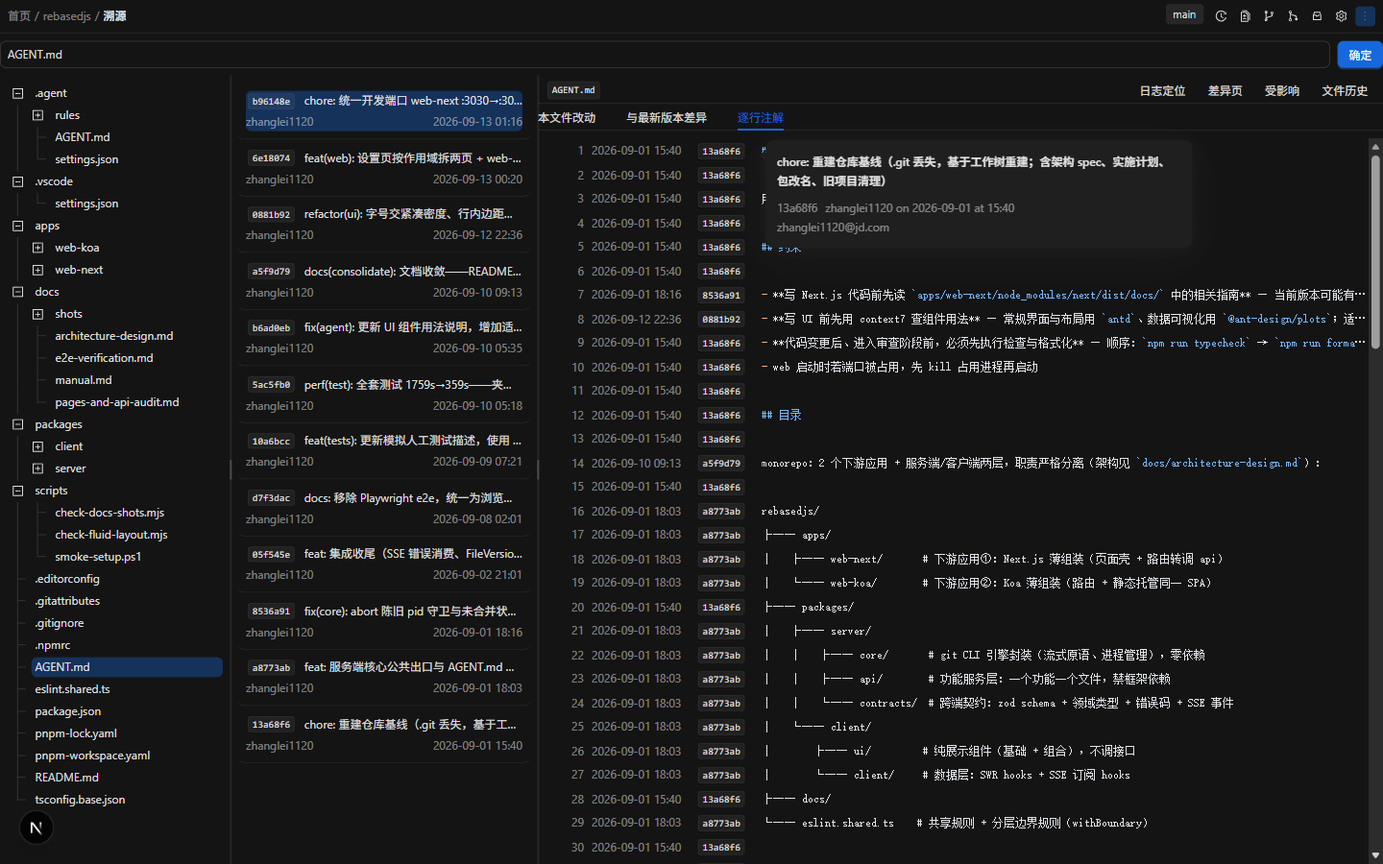
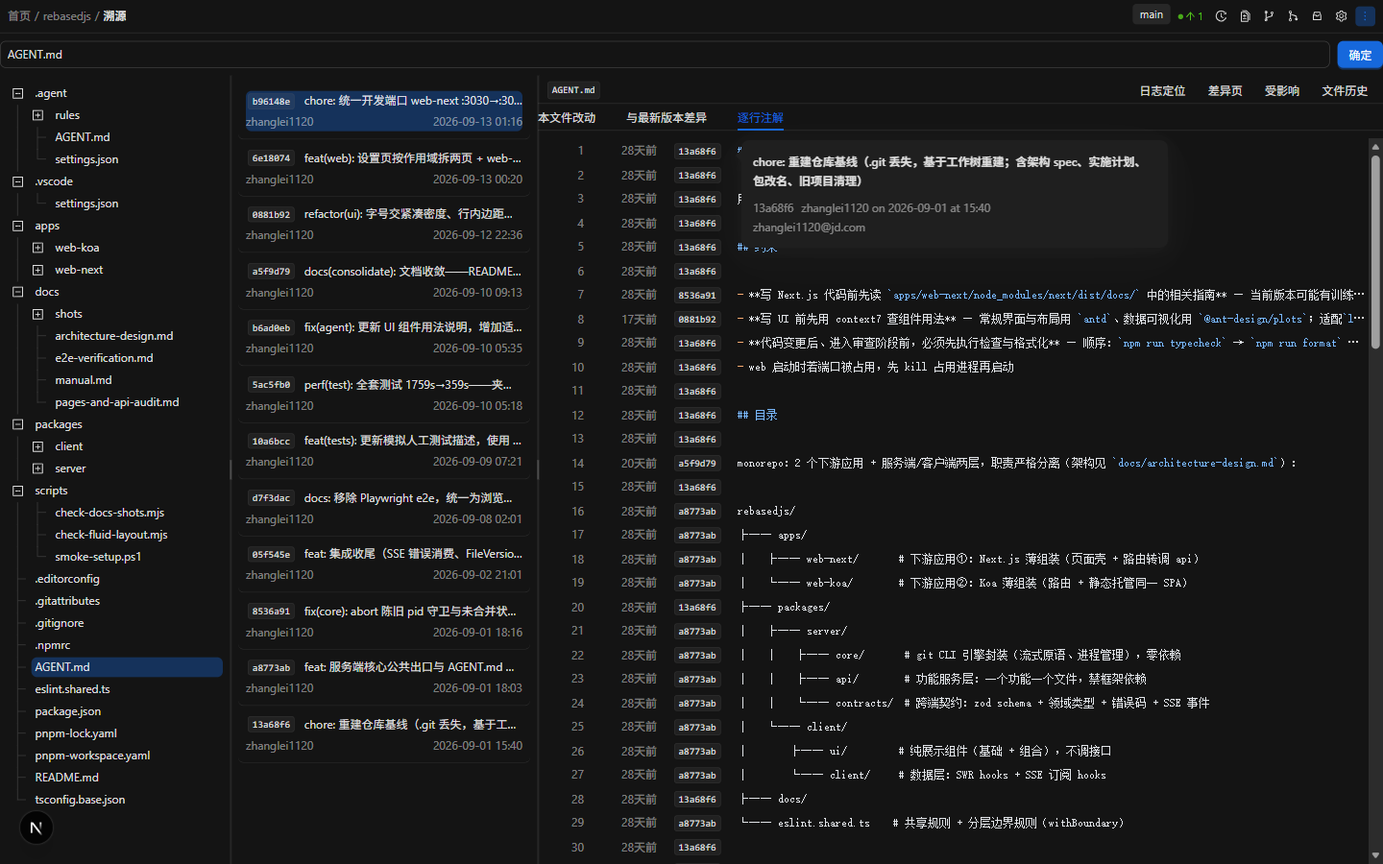
feat(blame): 注解行时间列改相对时间缩写，并把时间/哈希列定宽对齐
用户口径：行号后面的时间改成缩写（刚刚 / N分钟前 / N小时前 / N天前 / N月前 / N年前），
列宽要固定，保证右侧正文逐行对齐。

- domain/format.formatRelativeTime：<60s「刚刚」；<60min 分钟；<24h 小时；**≤31 天** 天
  （按 31 天切：口径里「31天前」与「1月前」都要能出现，按 30 天切会让 31 天永远是「1月前」）；
  <365 天 月（⌊天/30⌋，至少 1）；≥365 天 年；未来时刻按「刚刚」；无法解析原样返回；
  now 可注入（测试据此精确断言分档）
- 绝对时间不丢：浮层里仍是「作者 on YYYY-MM-DD at HH:mm」
- 定宽对齐（getBoundingClientRect 几何实测）：时间列 68px 右对齐；**哈希列 68px**——可点行是
  antd Button（自然宽 68）、未提交行是只读 Text（自然宽 53），修前正文左沿出现 768/753 两个值
  （差 15px），修后 distinctCodeLeft 只剩一个值（12 行含 5 行未提交 / 主仓 108 行均一致）
- 测试：format +4 例（各档分档、31 天切点、未来时刻、非法串）、blame-annotate-table +1 例
  （两类行同列宽）；ui 78 文件 / 990 用例全绿；typecheck 7/7
- 文档：manual §4.16、audit §4.16、e2e §5.35⑧（几何数字 + 刷新时机 + 未覆盖说明）；
  证据图 blame-09.png 复拍（1440×900，SHA256
  BC0190402E8250096D933A3DACB79FB9668C7D8178F7434EDFFFB362429CF6A2）

diff --git a/packages/client/ui/src/composite/blame-annotate-table.tsx b/packages/client/ui/src/composite/blame-annotate-table.tsx
@@ -26,11 +26,25 @@ import { Button, Flex, Popover, Spin, theme, Typography } from 'antd';
 import type { BlameLine, CommittedEntry } from '@rebased/contracts';
 import { EmptyState } from '../base/empty-state';
 import { HighlightedTokens, useHighlightedLines, type LineHighlighterLoader } from '../base/line-highlighter';
-import { formatCommitDate } from '../domain/format';
+import { formatRelativeTime } from '../domain/format';
 import { CommitDetailCard } from './commit-detail-card';
 
 /** 工作区未提交行的伪哈希：git blame 的边界提交（仓库里不存在该对象；sha1/sha256 长度兼容） */
 const ZERO_HASH_RE = /^0{40,64}$/;
+
+/**
+ * 时间列固定宽（右对齐）：相对时间的字数不固定（`刚刚` 2 字 ~ `59分钟前` 4 字），
+ * 不定宽的话每行的时间段宽度各不相同，右侧的哈希与正文就会逐行错开——定宽是"右侧对齐"的前提。
+ * 68px ≈ 4 个汉字（最长档 `12月前` / `59分钟前`）+ 一点余量。
+ */
+const TIME_COLUMN_WIDTH = 68;
+
+/**
+ * 哈希列固定宽：可点行渲染的是 antd Button（自带内边距，自然宽 68），未提交行渲染的是只读 Text
+ * （自然宽 53）——不定宽的话这两类行的**正文左沿会差 15px**（冒烟实测 768 vs 753），
+ * 一列里混着两类行时正文就是锯齿。定宽后两类行占同一列宽，正文逐行对齐。
+ */
+const HASH_COLUMN_WIDTH = 68;
 
 /** 哈希浮层的数据：hash 为当前展开的那一行，其余字段由容器按该哈希拉取后注入 */
 export interface BlameDetailState {
@@ -137,38 +151,49 @@ export function BlameAnnotateTable({
             <Typography.Text type="secondary" style={{ width: 48, textAlign: 'right', flexShrink: 0 }}>
               {line.lineno}
             </Typography.Text>
-            <Typography.Text type="secondary" style={{ flexShrink: 0, whiteSpace: 'nowrap' }}>
-              {formatCommitDate(line.dateIso)}
+            <Typography.Text
+              type="secondary"
+              data-testid={`blame-time-${line.lineno}`}
+              style={{ width: TIME_COLUMN_WIDTH, textAlign: 'right', flexShrink: 0, whiteSpace: 'nowrap' }}
+            >
+              {formatRelativeTime(line.dateIso)}
             </Typography.Text>
-            {hashClickable ? (
-              <Popover
-                trigger="click"
-                placement="rightTop"
-                open={open}
-                onOpenChange={(next) => {
-                  // 开合记在**这一行**上：同哈希的其余行不跟着开（点另一行 = 浮层挪过去）
-                  setOpenLineno(next ? line.lineno : null);
-                  onToggleDetail(next ? line.hash : null);
-                }}
-                content={<CommitDetailCard entry={detail?.entry} authorEmail={detail?.authorEmail} {...(detail?.loading !== undefined ? { loading: detail.loading } : {})} {...(detail?.error !== undefined ? { error: detail.error } : {})} />}
-              >
-                {/* 原生 button：回车/空格天生就是 click，不必自己写键盘分支；样式走 antd（text 按钮 + code 文本） */}
-                <Button
-                  type="text"
-                  size="small"
-                  data-testid={`blame-hash-${line.lineno}`}
-                  // 哈希点击只切浮层：不冒泡到行，避免一次点击同时选中提交
-                  onClick={(event) => event.stopPropagation()}
+            {/* 哈希列（定宽）：可点行是 Button、未提交行是只读 Text，两者自然宽不同——统一压到这个宽度，正文左沿才对齐 */}
+            <Flex
+              align="center"
+              data-testid={`blame-hash-cell-${line.lineno}`}
+              style={{ width: HASH_COLUMN_WIDTH, flexShrink: 0 }}
+            >
+              {hashClickable ? (
+                <Popover
+                  trigger="click"
+                  placement="rightTop"
+                  open={open}
+                  onOpenChange={(next) => {
+                    // 开合记在**这一行**上：同哈希的其余行不跟着开（点另一行 = 浮层挪过去）
+                    setOpenLineno(next ? line.lineno : null);
+                    onToggleDetail(next ? line.hash : null);
+                  }}
+                  content={<CommitDetailCard entry={detail?.entry} authorEmail={detail?.authorEmail} {...(detail?.loading !== undefined ? { loading: detail.loading } : {})} {...(detail?.error !== undefined ? { error: detail.error } : {})} />}
                 >
-                  <Typography.Text code>{line.shortHash}</Typography.Text>
-                </Button>
-              </Popover>
-            ) : (
-              // 不可点（未提交行 / 未注入回调）：保持只读文本形态，不给按钮语义
-              <Typography.Text code type={pending ? 'secondary' : undefined} data-testid={`blame-hash-${line.lineno}`}>
-                {line.shortHash}
-              </Typography.Text>
-            )}
+                  {/* 原生 button：回车/空格天生就是 click，不必自己写键盘分支；样式走 antd（text 按钮 + code 文本） */}
+                  <Button
+                    type="text"
+                    size="small"
+                    data-testid={`blame-hash-${line.lineno}`}
+                    // 哈希点击只切浮层：不冒泡到行，避免一次点击同时选中提交
+                    onClick={(event) => event.stopPropagation()}
+                  >
+                    <Typography.Text code>{line.shortHash}</Typography.Text>
+                  </Button>
+                </Popover>
+              ) : (
+                // 不可点（未提交行 / 未注入回调）：保持只读文本形态，不给按钮语义
+                <Typography.Text code type={pending ? 'secondary' : undefined} data-testid={`blame-hash-${line.lineno}`}>
+                  {line.shortHash}
+                </Typography.Text>
+              )}
+            </Flex>
             <span
               className="rebased-line"
               data-testid={`blame-code-${line.lineno}`}

diff --git a/packages/client/ui/src/domain/format.ts b/packages/client/ui/src/domain/format.ts
@@ -2,6 +2,8 @@
  * 日期格式化工具：默认直接取 ISO 串的日期/时间字段，不经过 Date 解析——输出确定，不依赖运行环境时区与区域设置。
  * 例外：带 `Z`（UTC 标记）的串——命令执行日志、存档文件 mtime、托管平台 API 时间戳都是这种——
  * 必须先按本机时区换算再展示，否则页面显示的墙上时间与用户本地时钟差一个时区（实测差 8 小时）。
+ * 第二个例外是 {@link formatRelativeTime}：相对时间**必须**解析时刻才能算差值（它不展示日期本身，
+ * 不受"截取字符串"那条口径约束）。
  */
 
 /** 补零：不依赖区域设置，避免 toLocaleString 在不同环境给出不同格式 */
@@ -24,6 +26,35 @@ export function formatCommitDate(dateIso: string): string {
   }
   const m = /^(\d{4}-\d{2}-\d{2})T(\d{2}:\d{2})/.exec(dateIso);
   return m ? `${m[1]} ${m[2]}` : dateIso;
+}
+
+/**
+ * 相对时间缩写（注解行时间列用）：`刚刚` / `N分钟前` / `N小时前` / `N天前` / `N月前` / `N年前`。
+ *
+ * 分档（与用户点名的示例对齐）：<60 秒「刚刚」；<60 分「N分钟前」；<24 小时「N小时前」；
+ * **≤31 天**「N天前」；<365 天「N月前」（N = ⌊天/30⌋，至少 1，故 32 天 = 1月前）；≥365 天「N年前」（N = ⌊天/365⌋）。
+ * 为什么按 31 天切而不是 30 天：口径里「31天前」与「1月前」都要能出现，30 天切会让 31 天变成「1月前」而
+ * 永远看不到「31天前」。
+ *
+ * 两个边界：**未来时刻**（时钟偏差、时区异常的提交）按「刚刚」，不显示负数；**无法解析的串原样返回**
+ * （与 formatCommitDate 同口径：不猜、不硬编一个时间）。
+ *
+ * `now` 可注入：测试据此断言绝对分档，不受运行时刻影响。值随时间推移会"变旧"，
+ * 调用方在重渲染时自然刷新——本仓**不**为此挂定时器（每秒/每分钟重渲染上千行不值得）。
+ */
+export function formatRelativeTime(dateIso: string, now: number = Date.now()): string {
+  const at = Date.parse(dateIso);
+  if (Number.isNaN(at)) return dateIso;
+  const diff = now - at;
+  if (diff < 60_000) return '刚刚';
+  const minutes = Math.floor(diff / 60_000);
+  if (minutes < 60) return `${minutes}分钟前`;
+  const hours = Math.floor(minutes / 60);
+  if (hours < 24) return `${hours}小时前`;
+  const days = Math.floor(hours / 24);
+  if (days <= 31) return `${days}天前`;
+  if (days < 365) return `${Math.max(1, Math.floor(days / 30))}月前`;
+  return `${Math.floor(days / 365)}年前`;
 }
 
 /** 详情面板作者行的**时间部分**："2026-09-01 at 14:30"（无法解析时给原串，不猜） */

diff --git a/packages/client/ui/src/domain/format.test.ts b/packages/client/ui/src/domain/format.test.ts
@@ -4,7 +4,7 @@
  * （命令日志、存档 mtime、托管平台 API 时间戳都是 Z 串——曾出现页面时间比本地时钟差一个时区）。
  */
 import { describe, expect, it } from 'vitest';
-import { formatAuthorLine, formatCommitDate } from './format';
+import { formatAuthorLine, formatCommitDate, formatRelativeTime } from './format';
 
 describe('formatCommitDate', () => {
   it('带时区偏移的串原样截取（git author date 保留作者当时墙上时间）', () => {
@@ -24,6 +24,41 @@ describe('formatCommitDate', () => {
     expect(formatCommitDate('')).toBe('');
     expect(formatCommitDate('not-a-date')).toBe('not-a-date');
     expect(formatCommitDate('2026-01-02T99:99Z')).toBe('2026-01-02T99:99Z');
+  });
+});
+
+describe('formatRelativeTime（注解行时间列的缩写）', () => {
+  // 「现在」固定注入，断言才不受运行时刻影响；输入用相对该时刻的偏移构造
+  const now = Date.parse('2026-09-30T04:00:00Z');
+  const MIN = 60_000;
+  const HOUR = 60 * MIN;
+  const DAY = 24 * HOUR;
+  const ago = (ms: number): string => new Date(now - ms).toISOString();
+
+  it('五档缩写：刚刚 / 分钟 / 小时 / 天 / 月 / 年', () => {
+    expect(formatRelativeTime(ago(30_000), now)).toBe('刚刚');
+    expect(formatRelativeTime(ago(59 * MIN), now)).toBe('59分钟前');
+    expect(formatRelativeTime(ago(23 * HOUR), now)).toBe('23小时前');
+    expect(formatRelativeTime(ago(31 * DAY), now)).toBe('31天前');
+    expect(formatRelativeTime(ago(365 * DAY), now)).toBe('1年前');
+    expect(formatRelativeTime(ago(730 * DAY), now)).toBe('2年前');
+  });
+
+  it('天与月的切点在 31 天：32 天起给「N月前」，且月数至少为 1（不出现「0月前」）', () => {
+    // 用户口径的示例里「31天前」与「1月前」都要能出现——故按 31 天切，而不是 30 天
+    expect(formatRelativeTime(ago(32 * DAY), now)).toBe('1月前');
+    expect(formatRelativeTime(ago(59 * DAY), now)).toBe('1月前');
+    expect(formatRelativeTime(ago(60 * DAY), now)).toBe('2月前');
+    expect(formatRelativeTime(ago(364 * DAY), now)).toBe('12月前');
+  });
+
+  it('未来时刻（时钟偏差）按「刚刚」，不给负数', () => {
+    expect(formatRelativeTime(new Date(now + 5 * MIN).toISOString(), now)).toBe('刚刚');
+  });
+
+  it('无法解析的串原样返回（与 formatCommitDate 同口径：不猜）', () => {
+    expect(formatRelativeTime('not-a-date', now)).toBe('not-a-date');
+    expect(formatRelativeTime('', now)).toBe('');
   });
 });
 

diff --git a/packages/client/ui/src/composite/blame-annotate-table.test.tsx b/packages/client/ui/src/composite/blame-annotate-table.test.tsx
@@ -54,9 +54,14 @@ describe('BlameAnnotateTable 渲染', () => {
     );
     const row1 = screen.getByTestId('blame-line-1');
     expect(row1).toHaveTextContent('1');
-    expect(row1).toHaveTextContent('2026-01-01 00:00');
     expect(row1).toHaveTextContent('abc1');
     expect(row1).toHaveTextContent('const a = 1;');
+    // 时间列是相对时间缩写（精确分档由 domain/format.test.ts 用注入的 now 钉住；这里只钉形状与列宽）
+    const time1 = screen.getByTestId('blame-time-1');
+    expect(time1.textContent).toMatch(/前$|^刚刚$/);
+    // 固定宽度 + 右对齐：相对时间字数不一（刚刚 2 字 ~ 59分钟前 4 字），定宽才能让右侧哈希与正文逐行对齐
+    expect(time1.style.width).toBe('68px');
+    expect(time1.style.textAlign).toBe('right');
     // 用户口径：行内只有 行号｜时间｜哈希 + 内容；作者（及其邮箱）只在浮层里出现
     expect(row1).not.toHaveTextContent('author 1');
     expect(screen.getByTestId('blame-line-2')).toHaveTextContent('const b = 2;');
@@ -115,6 +120,19 @@ describe('BlameAnnotateTable 渲染', () => {
 });
 
 describe('BlameAnnotateTable 行交互', () => {
+  it('哈希列定宽：未提交行（只读文本）与可点行（按钮）占同一列宽，正文起始位不漂移', () => {
+    render(
+      <BlameAnnotateTable
+        lines={[makeLine({ lineno: 1, hash: 'h1' }), makeLine({ lineno: 2, hash: ZERO_HASH, shortHash: '0000000' })]}
+        onToggleDetail={() => {}}
+      />,
+    );
+    // 实测（冒烟）：Button 自然宽 68 / 只读 Text 自然宽 53 → 两类行的正文起始位差 15px（768 vs 753）。
+    // 定宽把两类行压到同一列宽，正文左沿才逐行对齐（几何由冒烟在浏览器里量，这里钉列宽契约）。
+    expect(screen.getByTestId('blame-hash-cell-1').style.width).toBe('68px');
+    expect(screen.getByTestId('blame-hash-cell-2').style.width).toBe('68px');
+  });
+
   it('点行以该行归属的提交调 onSelectCommit', () => {
     const onSelectCommit = vi.fn();
     render(<BlameAnnotateTable lines={[makeLine({ lineno: 3, hash: 'fullhash3' })]} onSelectCommit={onSelectCommit} />);

diff --git a/docs/e2e-verification.md b/docs/e2e-verification.md
@@ -1166,7 +1166,7 @@
 | `diff-stream-view` | `diff-page-07.png`（大仓 `big.txt` 的分块流渲染，F-035 实测 2 个 `diff.chunk` 帧渐进累积后切标准视图）；其 `diff-stream-error` 分支由单测覆盖 |
 | `three-way-view` / `merge-view` | `conflicts-03.png`（全屏三栏：当前分支 / 合并来源 / 合并结果）、`conflicts-08b.png`（保存前结果栏已改写为 `line1 master` / `line2 feature` / `line3 resolved-by-hand`） |
 | `branch-compare-view` | `diff-page-10.png`（`?compare=diverge-test` 双 range 对比视图）、`branch-06.png`（分支页「比较」入口与「当前」分支禁用态） |
-| `blame-workbench`（三栏工作台；原单列 `blame-view` 已随页面重构删除） | `blame-01…06.png`（三栏总览暗色 / 「与最新版本差异」/ 受影响文件 Modal / 逐行注解点行联动 / 陈旧 `?select=` 未知态 / 明亮主题总览）+ `blame-08.png`（**收尾轮 R25 补拍**：工作区口径的逐行注解，含 1 行「未提交」，见 §5.34⑦）；testid 实测在盘——根 `blame-pane`、操作条 `blame-pane-actions` + `blame-action-log`/`-diff`/`-affected`/`-history`、三标签页 `blame-view-changes`/`-latest`/`-annotate`、中栏 `blame-commits` + `blame-commit-N`、注解行 `blame-line-N` + **逐行高亮正文 `blame-code-N`** + **哈希浮层触发按钮 `blame-hash-N`（2026-09 起是 button，不再是只读徽标）** + 浮层内容 `commit-detail-card` / `commit-detail-email` / `blame-detail-loading` / `blame-detail-error`、提示行 `blame-changes-root-hint`/`-rename-hint`/`-missing-hint` 与 `blame-latest-missing-hint`。**旧 testid `blame-file` 已随旧组件消失**（路径输入框现为 `blame-file-input`） |
+| `blame-workbench`（三栏工作台；原单列 `blame-view` 已随页面重构删除） | `blame-01…06.png`（三栏总览暗色 / 「与最新版本差异」/ 受影响文件 Modal / 逐行注解点行联动 / 陈旧 `?select=` 未知态 / 明亮主题总览）+ `blame-08.png`（**收尾轮 R25 补拍**：工作区口径的逐行注解，含 1 行「未提交」，见 §5.34⑦）；testid 实测在盘——根 `blame-pane`、操作条 `blame-pane-actions` + `blame-action-log`/`-diff`/`-affected`/`-history`、三标签页 `blame-view-changes`/`-latest`/`-annotate`、中栏 `blame-commits` + `blame-commit-N`、注解行 `blame-line-N` + **相对时间列 `blame-time-N`（定宽 68px）** + **哈希列容器 `blame-hash-cell-N`（定宽 68px）** + **逐行高亮正文 `blame-code-N`** + **哈希浮层触发按钮 `blame-hash-N`（2026-09 起是 button，不再是只读徽标）** + 浮层内容 `commit-detail-card` / `commit-detail-email` / `blame-detail-loading` / `blame-detail-error`、提示行 `blame-changes-root-hint`/`-rename-hint`/`-missing-hint` 与 `blame-latest-missing-hint`。**旧 testid `blame-file` 已随旧组件消失**（路径输入框现为 `blame-file-input`） |
 | ~~`committed-changes-panel`~~ | 组件已随页面删除（2026-09-20 用户口径）；`committed-01…03.png` 保留为删除前的历史证据（提交列表分页 50→100 / 目录树 / 与 diff 页联动），根 testid `committed-entry-N` / `committed-load-more` 已随组件移除。当前的等效证据见 `log-page-*`（变更集标签：`snapshot-changeset-title` / `snapshot-changeset-pane` / `changes-diff-*`） |
 | 其余复合页面组件 | `BranchPanel` / `StashPanel` / `TagPanel` / `RemotePanel` / `PatchPanel` / `ShelfPanel` / `WorktreePanel` / `SubmodulePanel` / `ConflictsPanel` / `HistoryPanel` / `SearchPanel` / `ConsolePanel` / `GitHubPanel` / `GitLabPanel` 与 `Reset` / `Merge` / `Rebase` / `Push` / `Pull` / `UpdateProject` / `Ignore` / `Auth` 各对话框属「页面级」组件，落图见 §5.27 ①（成对）与 §4 各页矩阵，不在此表重复（原 `BrowsePanel`、`CommittedChangesPanel` 已随整页形态删除） |
 
@@ -1688,7 +1688,18 @@
 
 | 截图 | 画面 | 覆盖项 | SHA256（完整值，`Get-FileHash` 实算） |
 |------|------|--------|----------------------------------------|
[2 lines of base64/hex data omitted]
+
+**⑧ 同日微调：时间列改相对时间 + 列宽定死（对准口径）**
+
+> **口径**：行内时间列由绝对时间（`YYYY-MM-DD HH:mm`）改为**相对时间缩写**——`刚刚` / `N分钟前` / `N小时前` / `N天前` / `N月前` / `N年前`（分档见 `domain/format.ts` 的 `formatRelativeTime`：<60 秒 → 刚刚；<60 分 → 分钟；<24 小时 → 小时；**≤31 天 → 天**；<365 天 → 月（⌊天/30⌋，至少 1）；≥365 天 → 年；未来时刻按「刚刚」）。**绝对时间没丢**：浮层里仍是 `作者 on YYYY-MM-DD at HH:mm`，且更精确。
+> **为什么按 31 天切**：口径里「31天前」与「1月前」都要能出现；按 30 天切会让 31 天变成「1月前」，`31天前` 永远看不到。
+> **定宽与对齐（几何实测，`getBoundingClientRect`，非目测）**：
+> - 时间列 **68px 右对齐**：相对时间字数不一（`刚刚` 2 字 ~ `59分钟前` 4 字），不定宽则每行宽度不同、右侧逐行错开；
+> - **哈希列 68px（本轮一并修掉的既有错位）**：可点行是 antd Button（自然宽 68）、未提交行是只读 Text（自然宽 53）——修前同一页里**正文左沿出现两个值：768 / 753（差 15px）**，修后 `distinctCodeLeft = [768]`（`rebased-smoke` 的 12 行含 5 行未提交全部一致；主仓 `AGENT.md` 108 行同样只有一个值）；
+> - 六种档位文本在 68px 列内**均不裁切**（在页面内克隆同款单元格逐档实测：`刚刚`/`59分钟前`/`23小时前`/`31天前`/`12月前`/`1年前`，`scrollWidth == clientWidth`，12px 字号）。
+> **刷新时机（如实说明）**：相对时间在**重渲染时**刷新，本仓不为此挂定时器（每秒/每分钟重渲染上千行不值得）——页面长时间挂着不动时，`59分钟前` 不会自己跳成 `1小时前`。
+> **未覆盖（微调部分）**：`N分钟前`/`N小时前`/`N月前`/`N年前` 四档本轮**只有单测覆盖**（`domain/format.test.ts` 注入固定的「现在」精确断言），浏览器里实测到的是 `刚刚` 与 `N天前` 两档（夹具仓的提交都在近 31 天内）。
 
 > **收尾状态**：本轮新增 `docs/shots/blame-09.png` 一张；**未改动任何夹具**（`rebasedjs` 与 `rebased-smoke` 的工作区状态与冒烟前一致：前者干净、后者保留其既有的未提交改动，未新增/未还原）。截图落盘走 AGENT.md §MCP 五步：本项目不在 MCP 允许根内 → 先以纯文件名落盘到 MCP 输出目录，再按绝对路径搬进 `docs/shots/` 并 `Get-FileHash` 复核。
 

diff --git a/docs/manual.md b/docs/manual.md
@@ -769,9 +769,9 @@
 | 中栏提交清单选中 | 「这个文件改过几次、每次谁改的」扫一眼就有；选中哪条，右栏三个标签就换到哪一版 | 点中栏任意一行（短哈希 + 标题 + 作者 + 日期，含改名之前的提交，最新在最上）→ 该行带选中底色，右栏随之换版本；一次都不点时自动选中最上面那条（不写进地址栏）；清单为空（未跟踪文件、空仓库）显示「该文件暂无提交记录」 |
 | 本文件改动（默认标签） | 「这次提交到底把这个文件改成了什么」——不必新开差异页 | 选中一条提交 → 右栏默认停在「本文件改动」：对比「该提交 vs 它的父提交」，增删行高亮；呈现工具条与差异页同款（并排/行内、忽略空白、自动换行、空白字符、上下文行数），默认按「行内」开场（呈现偏好记在本机，改一次之后都按它） |
 | 与最新版本差异（新） | 「这一版和现在工作区里的差多少」——把还没提交的改动一并算进来 | 点「与最新版本差异」标签：拿该提交的那一版与**当前工作区版本**对比，未提交的改动也体现在差异里 |
-| 逐行注解·逐行归属（F-101、F-104） | 整个文件的逐行责任归属一次看全：每行的行号、时间、短哈希与**带语法高亮的代码内容**（作者与邮箱不占行内位置，见「点哈希看提交详情」一行）；追责、找「是谁引入的这行」时用；**默认看当前工作区**，所以本地还没提交的行也看得到归属 | 点「逐行注解」标签：地址里**没有** `?select=` 时看**当前工作区**（本地未提交的行哈希为全 0）；**在中栏选中某个提交后，这个标签就改成看那一版的归属**（点注解里的行也会这样选中提交）；文件多少行就列多少行，不分页不截断；文件改过名也不影响（按当前路径查即可，行归属会落到改名前后各自的提交上）；正文按文件后缀着色（语法未收录的按纯文本呈现，不猜语法） |
+| 逐行注解·逐行归属（F-101、F-104） | 整个文件的逐行责任归属一次看全：每行的行号、**相对时间**（`刚刚`/`N分钟前`/`N小时前`/`N天前`/`N月前`/`N年前`）、短哈希与**带语法高亮的代码内容**（作者与邮箱不占行内位置，见「点哈希看提交详情」一行；绝对时间也在那个浮层里）；追责、找「是谁引入的这行」时用；**默认看当前工作区**，所以本地还没提交的行也看得到归属 | 点「逐行注解」标签：地址里**没有** `?select=` 时看**当前工作区**（本地未提交的行哈希为全 0）；**在中栏选中某个提交后，这个标签就改成看那一版的归属**（点注解里的行也会这样选中提交）；文件多少行就列多少行，不分页不截断；文件改过名也不影响（按当前路径查即可，行归属会落到改名前后各自的提交上）；正文按文件后缀着色（语法未收录的按纯文本呈现，不猜语法）；三列宽度是定死的（行号｜时间｜哈希），所以每行的正文左沿都对齐 |
 | 逐行注解·点行选中它的提交（新） | 追责主链路：看到这行是谁写的，接着就要看那次提交改了什么 | 点注解里的任意一行（**哈希那一段除外**，它归提交详情浮层）= 选中该行归属的提交（中栏同步高亮，右栏另两个标签也跟着换到那一版）；行也够得到键盘：Tab 停在行上、回车或空格选中 |
-| 逐行注解·点哈希看提交详情（新） | 不离开本页就想看清「这一行到底出自哪次提交」：完整提交信息、作者与邮箱、父提交 | 点行内的短哈希 → 右上方弹出提交详情卡：主题、短哈希（点一下复制完整哈希）、作者与时间、**完整提交正文**（保留换行；面板上点文本即复制整条提交信息）、作者邮箱、父提交链接；再点同一个哈希、或点浮层外面收起——**浮层只开在你点的那一行**（同一提交往往连着好几行，点哪行开哪行）。第一次点某个哈希才去取该提交的数据，同一个哈希再点不重复请求（关着时一个请求都不发）。浮层靠右显示；若那一行太靠近窗口底部，浮层会自动向上翻转以留在可视区内（这是紧贴窗口底边时的正常表现，不是位置错乱） |
+| 逐行注解·点哈希看提交详情（新） | 不离开本页就想看清「这一行到底出自哪次提交」：完整提交信息、作者与邮箱、**精确时间**、父提交 | 点行内的短哈希 → 右上方弹出提交详情卡：主题、短哈希（点一下复制完整哈希）、作者与时间（形如 `zhanglei1120 on 2026-09-01 at 15:40`——行内那列是相对时间，要精确时刻看这里）、**完整提交正文**（保留换行；面板上点文本即复制整条提交信息）、作者邮箱、父提交链接；再点同一个哈希、或点浮层外面收起——**浮层只开在你点的那一行**（同一提交往往连着好几行，点哪行开哪行）。第一次点某个哈希才去取该提交的数据，同一个哈希再点不重复请求（关着时一个请求都不发）。浮层靠右显示；若那一行太靠近窗口底部，浮层会自动向上翻转以留在可视区内（这是紧贴窗口底边时的正常表现，不是位置错乱） |
 | 逐行注解·未提交行 | 工作区里改了还没提交的行不属于任何一次提交，别误点 | 这类行的短哈希是全 0（0000000）、颜色更淡且**不可点**（不弹浮层、不进入选中态）。行内不再写「未提交」字样（用户口径：行内只留 行号｜时间｜哈希），要核这类行请对照工作区文件本身 |
 | 注解点击联动·「日志定位」（F-102） | 想知道这次提交的完整信息、它在历史里的位置 | 点右栏操作条「日志定位」→ 回日志页并自动选中该提交（只做导航，不动工作区） |
 | 注解点击联动·「差异页」（F-102） | 想在新标签页里并排看这次提交对该文件的改动，同时把本页留在原处 | 点「差异页」→ **新标签页**打开差异页，对比「该提交 vs 它的父提交」；根提交（没有父版本）改开 `root=1` 的提示页；父提交未知时这个按钮**不渲染**（不猜，也不打开一张说错话的页面——「未知」指变更集没到、选中的哈希又不在中栏清单里，例如陈旧或被改写的 `?select=` 深链；中栏列着的提交即便变更集还在路上也会渲染，那时父提交取自清单条目自带的那份数据） |

diff --git a/docs/pages-and-api-audit.md b/docs/pages-and-api-audit.md
@@ -428,7 +428,7 @@ Update Project——策略化更新入口；对应 `GitUpdateOptionsDialog` / `G
 
 | 功能点 | 状态 | 说明 |
 |--------|------|------|
-| 注解展示 | ✅（等效形态） | 右栏「逐行注解」标签（`blame-annotate-table.tsx`，即原 `BlameView` 行渲染的承继者）：行号/时间/短哈希 + **逐行语法高亮的正文**（`base/line-highlighter` → `shiki-lazy.highlightLines`：整块 tokenize 后按行取 token；未收录语法、wasm 未就绪、行数与源文件不一致一律退纯文本），承载注解语义（Web 无编辑器 gutter）；**作者不占行内列**（用户口径，移入哈希浮层）；**默认看当前工作区**（地址无 `?select=` 时不给 `rev`，即旧单列页的工作区口径），工作区未提交行（全 0 哈希）不可点、不再写「未提交」字样；显式选中某提交（含旧 `?rev=`）时才看那一版 |
+| 注解展示 | ✅（等效形态） | 右栏「逐行注解」标签（`blame-annotate-table.tsx`，即原 `BlameView` 行渲染的承继者）：行号 / **相对时间**（`domain/format.formatRelativeTime`：刚刚·分钟·小时·**≤31 天**·月·年；绝对时间在浮层里不丢）/ 短哈希 + **逐行语法高亮的正文**（`base/line-highlighter` → `shiki-lazy.highlightLines`：整块 tokenize 后按行取 token；未收录语法、wasm 未就绪、行数与源文件不一致一律退纯文本），承载注解语义（Web 无编辑器 gutter）；**作者不占行内列**（用户口径，移入哈希浮层）；**时间列与哈希列定宽 68px**——可点行是 Button（自然宽 68）、未提交行是只读 Text（自然宽 53），不定宽时正文左沿会出现 768/753 两个值（差 15px），定宽后逐行对齐（几何实测）；**默认看当前工作区**（地址无 `?select=` 时不给 `rev`，即旧单列页的工作区口径），工作区未提交行（全 0 哈希）不可点、不再写「未提交」字样；显式选中某提交（含旧 `?rev=`）时才看那一版 |
 | 注解点击联动 | ✅ | 右栏操作条（**选中提交级**，等价旧行内按钮，D4）四出口：「日志定位」→ LogPage `?select=`；「差异页」→ 新标签页 DiffPage `from=父哈希&to=该提交`（根提交 `root=1`；父提交未知时不注入该按钮）；「文件历史」→ HistoryPanel；「受影响」→ 全量变更文件 Modal（边 #29/#33）。注解行点击 = 选中该行归属的提交（页内联动，D7）；**点行内短哈希不代劳选中**（`stopPropagation` + 行内控件按键不冒泡到行的判据）——两个入口互不代劳 |
 | 注解行哈希浮层（用户口径：只做点击，不做 hover） | ✅ | **新增**：`commit-detail-card.tsx` 装在 `Popover placement="rightTop"`（`trigger="click"`，原生 button 触发，键盘 Enter/Space 天生可用）里，内容复用 `domain/commit-details-panel`（主题 + 完整正文 + 作者 + 短哈希点击复制 + 父提交），另补一行**可见的作者邮箱**（`BlameLine.authorEmail`——`CommittedEntry` 不带邮箱）；数据走 `GET /commits/:hash`（该响应**新增 `message` 字段**，见端点表），关闭态 hash 传空串挂 null key **零请求**、同哈希再点走 SWR 缓存；未提交行（全 0）不可点；换文件即收起。**开合按「被点的行」而不是哈希**——一个提交通常拥有连续多行，按哈希判定会一次弹出 N 个浮层（冒烟实测 `b96148e` 3 个，D-45，已修 + 回归守卫，见 e2e §5.35）；浮层在空间不足时由 antd 自动上下翻转（左右恒在右侧） |
 | 右栏三标签（本文件改动 / 与最新版本差异 / 逐行注解） | ✅ | 「本文件改动」（默认）= `useFileDiff(from=父提交,to=该提交)`；**「与最新版本差异」= `useFileDiff(repoId,file,false,该提交)` 的 from-only 语义（该提交版本 vs 当前工作区版本，未提交改动一并体现）**；「逐行注解」= `useBlame(repoId,file,rev)`，**`rev` 只在该标签被激活且地址里有显式 `?select=` 时才给**（不给 = 工作区口径），门禁随之分叉（无显式选中时不要求 hash 非空——一次提交都没有的文件照样能注解工作区内容）；三标签懒取数——非激活标签挂 null key 不发请求 |
